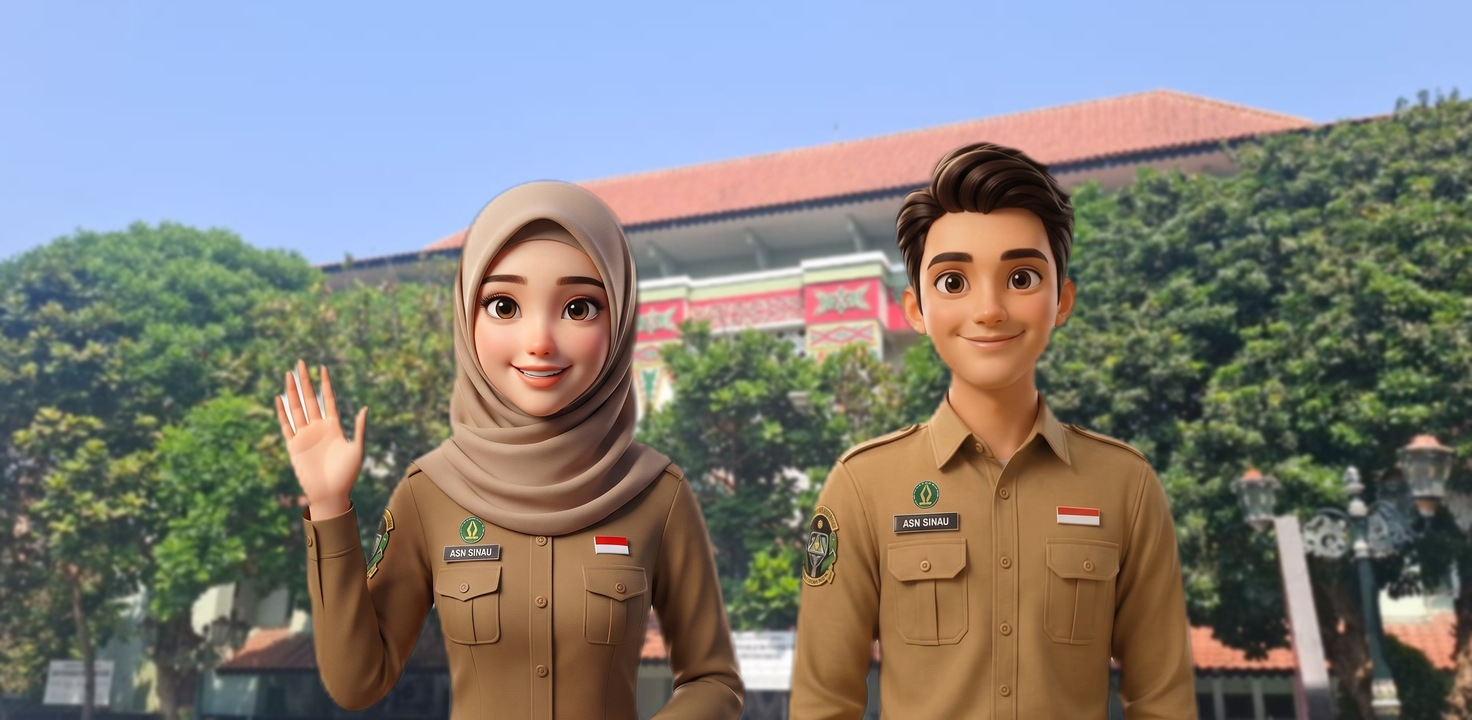
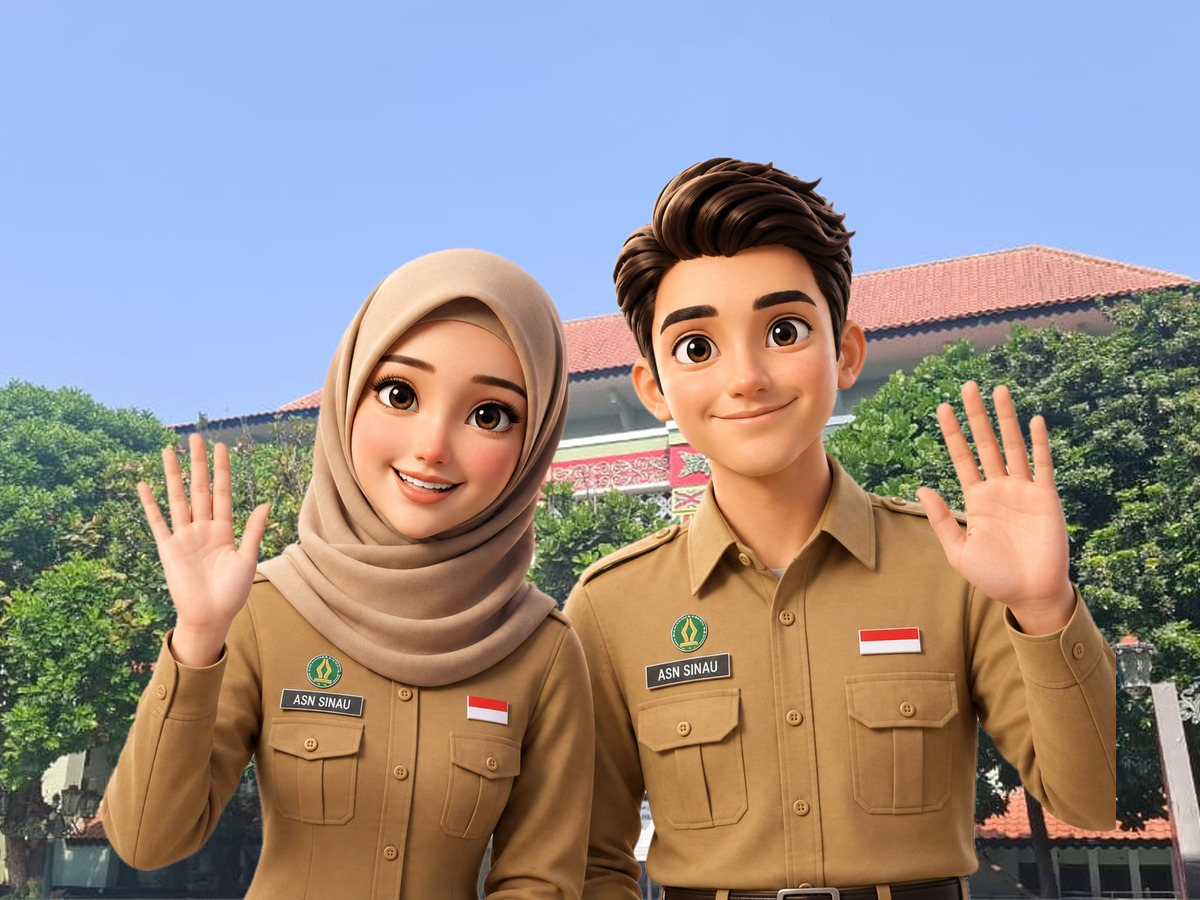
Feat: Menambahkan dan mengganti gambar pada beranda

diff --git a/frontend/src/pages/public/Beranda.jsx b/frontend/src/pages/public/Beranda.jsx
@@ -9,6 +9,7 @@ import { Container, Eyebrow, FOTO_HERO, Reveal, Sticker, useHeroZoom } from '../
 // Foto: taruh di public/images/ (hero-bkpsdm.jpg, gedung-bkpsdm.jpg, laptop.jpg). Kalau belum ada, tampil gradien.
 const FOTO_GEDUNG = '/images/tentang-instansi.jpg'
 const FOTO_MAHASISWI = '/images/mahasiswi-bingung.png'
+const FOTO_DUO = '/images/duo-asn-mahasiswi.png'
 
 const BIDANG_DEFAULT = [
   'Pendamping Teknis Pranata Komputer',
@@ -348,20 +349,24 @@ export default function Beranda() {
       </Slide>
 
       {/* CTA (versi ringkas) */}
-      <Slide no="05" className="bg-white pt-10 pb-24">
-        <Container>
-          <Reveal className="mx-auto flex max-w-3xl flex-col items-start gap-4 rounded-xl bg-brand-900 px-6 py-5 sm:flex-row sm:items-center">
-            <span className="float-y flex h-11 w-11 shrink-0 items-center justify-center rounded-lg border border-white/20 bg-white/10 text-white">
-              <Icon name="cap" className="h-5 w-5" />
+      <Slide no="05" className="flex min-h-[30rem] flex-col justify-end bg-white pt-10 pb-[4.5rem] md:min-h-[38rem] md:pb-28">
+        {/* Gambar berdiri di dasar section, di tengah, lapisan paling bawah, tanpa animasi sendiri (seperti gambar di section 3). Dasar gambar menempel di dasar section (bottom-0); bagian bawahnya tertutup map footer */}
+        <div aria-hidden="true" className="pointer-events-none absolute inset-0 z-0 overflow-hidden rounded-[inherit]">
+          <img src={FOTO_DUO} alt="" className="absolute bottom-0 left-1/2 h-[28rem] w-auto max-w-none md:h-[36rem] -translate-x-1/2 drop-shadow-[0_10px_18px_rgba(0,0,0,0.15)]" />
+        </div>
+        <Container className="relative z-10">
+          <Reveal className="relative z-10 mx-auto flex max-w-3xl flex-col items-start gap-4 rounded-xl bg-brand-900 px-6 py-5 sm:flex-row sm:items-center md:h-32 md:gap-5 md:px-8">
+            <span className="float-y flex h-12 w-12 shrink-0 items-center justify-center rounded-lg border border-white/20 bg-white/10 text-white">
+              <Icon name="cap" className="h-6 w-6" />
             </span>
             <div className="flex-1">
-              <h2 className="text-lg font-semibold text-white">Siap Menjadi Bagian dari Kami?</h2>
-              <p className="mt-0.5 text-sm text-slate-300">
+              <h2 className="text-xl font-semibold text-white">Siap Menjadi Bagian dari Kami?</h2>
+              <p className="mt-1 text-sm text-slate-300">
                 Daftarkan diri Anda sekarang dan raih pengalaman berharga bersama BKPSDM.
               </p>
             </div>
             <Link to="/pendaftaran"
-              className="group inline-flex shrink-0 items-center gap-2 rounded-full bg-brand-500 px-5 py-2.5 text-sm font-semibold text-white transition hover:bg-brand-600">
+              className="group inline-flex shrink-0 items-center gap-2 rounded-full bg-brand-500 px-6 py-3 text-sm font-semibold text-white transition hover:bg-brand-600">
               <Icon name="userPlus" className="h-4 w-4" /> Daftar Magang <Icon name="arrowRight" className="h-3.5 w-3.5 transition-transform duration-300 group-hover:translate-x-1" />
             </Link>
           </Reveal>
